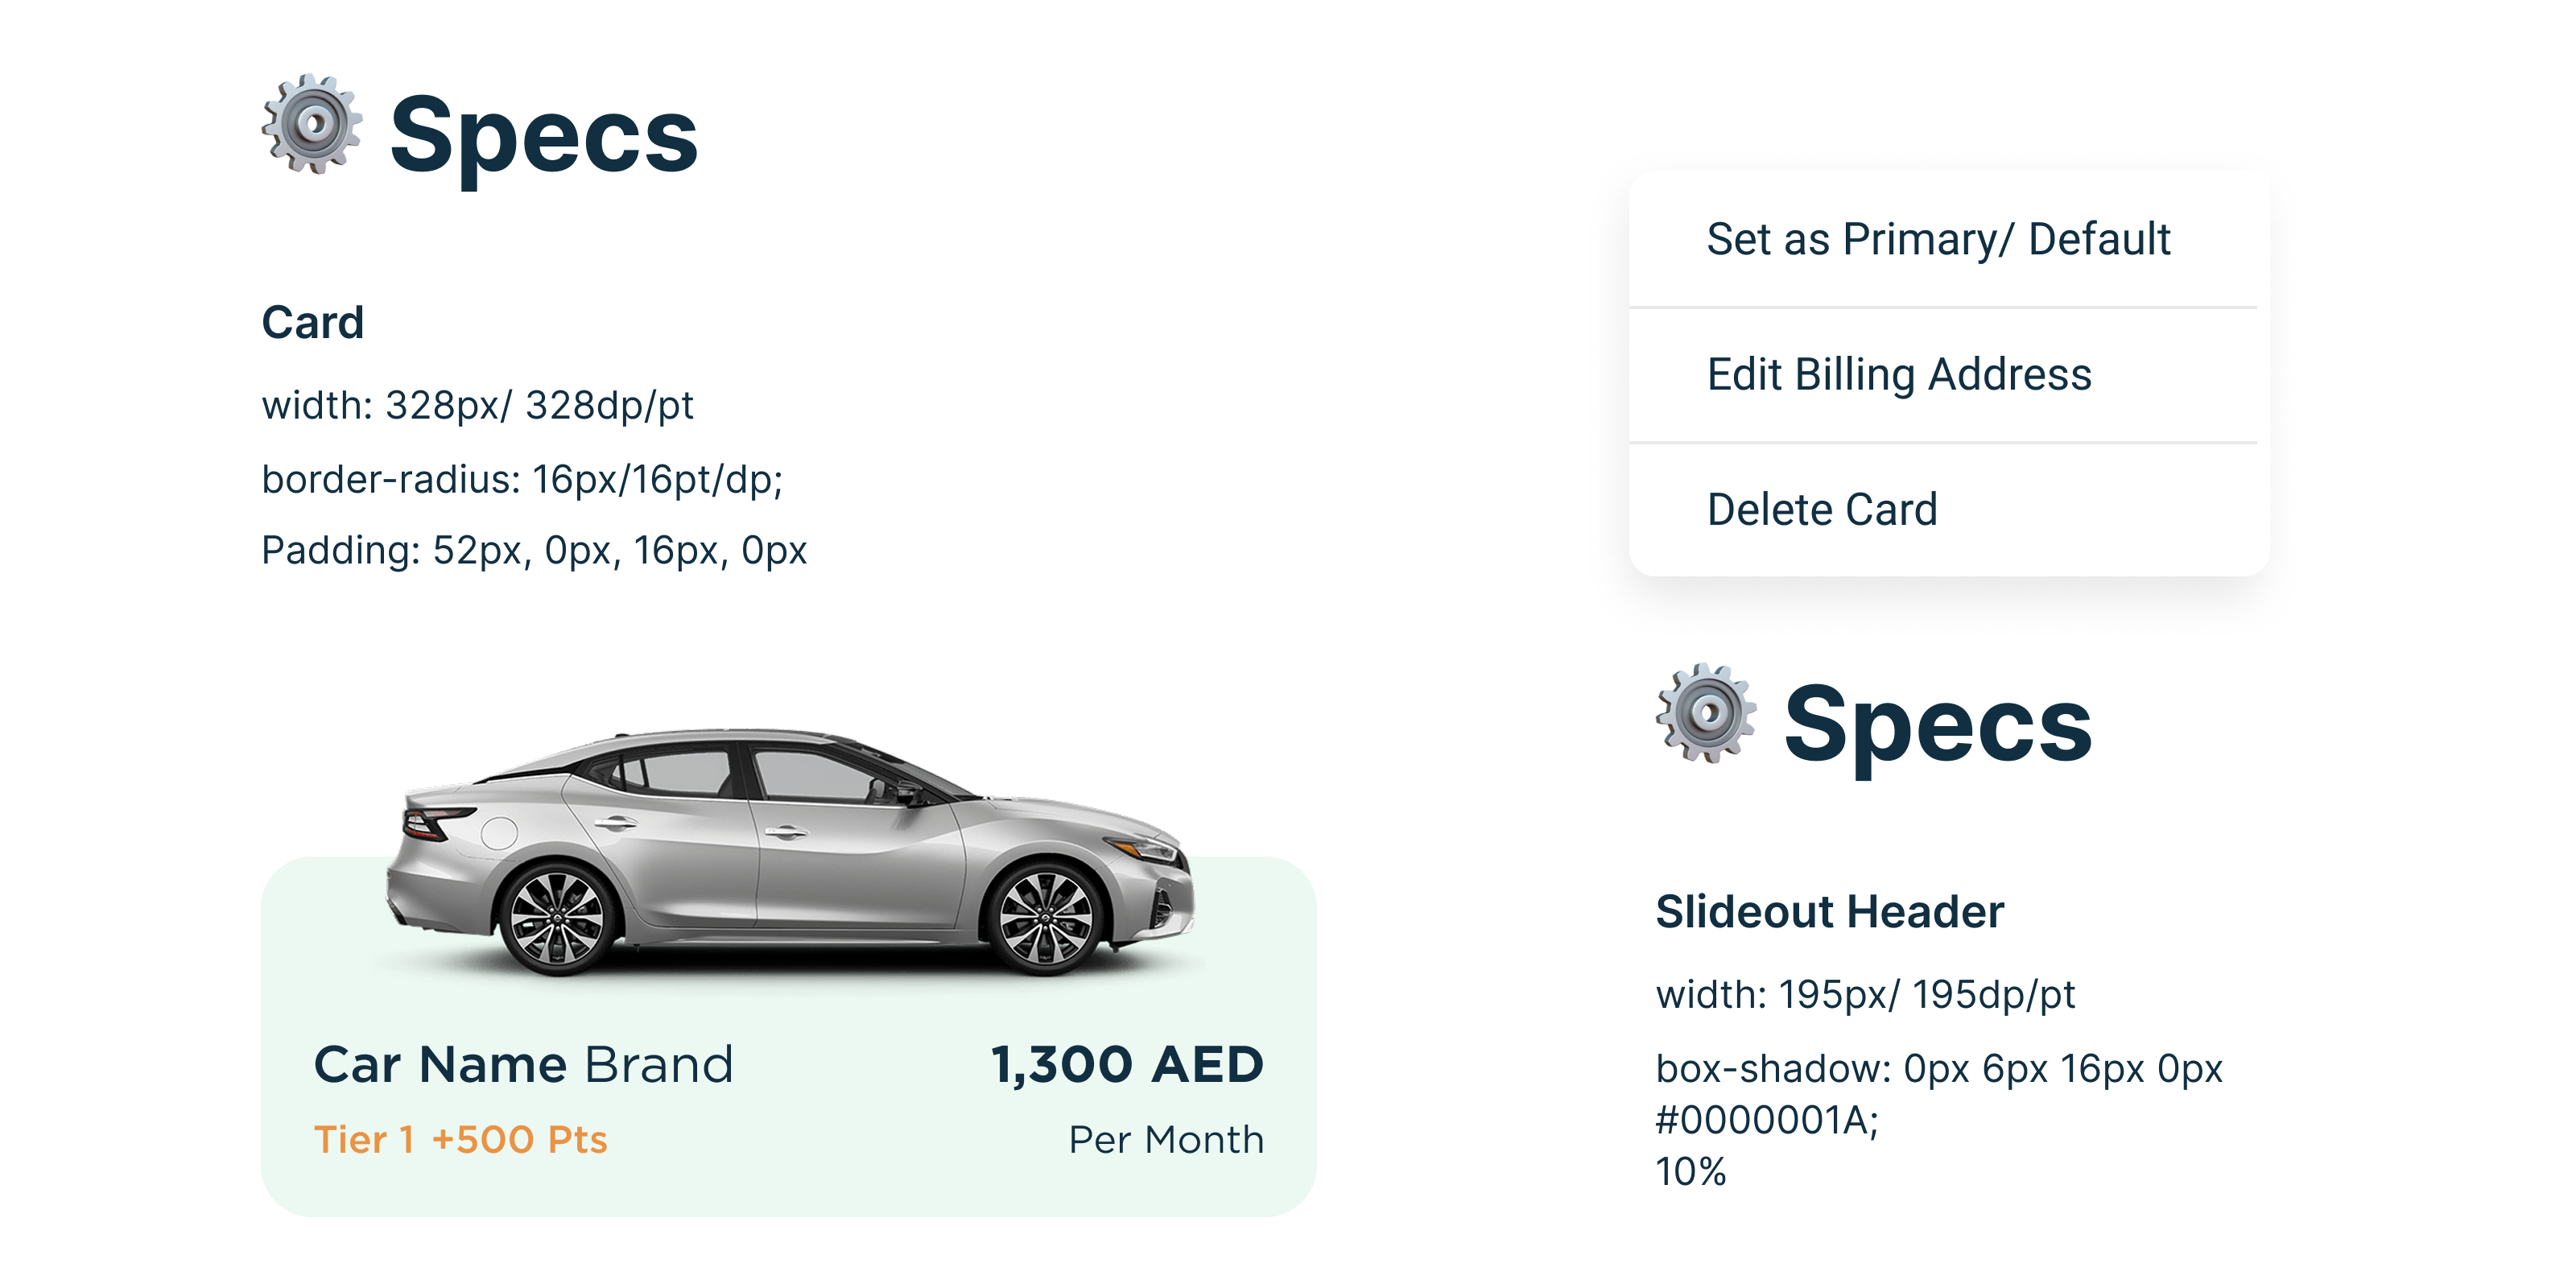
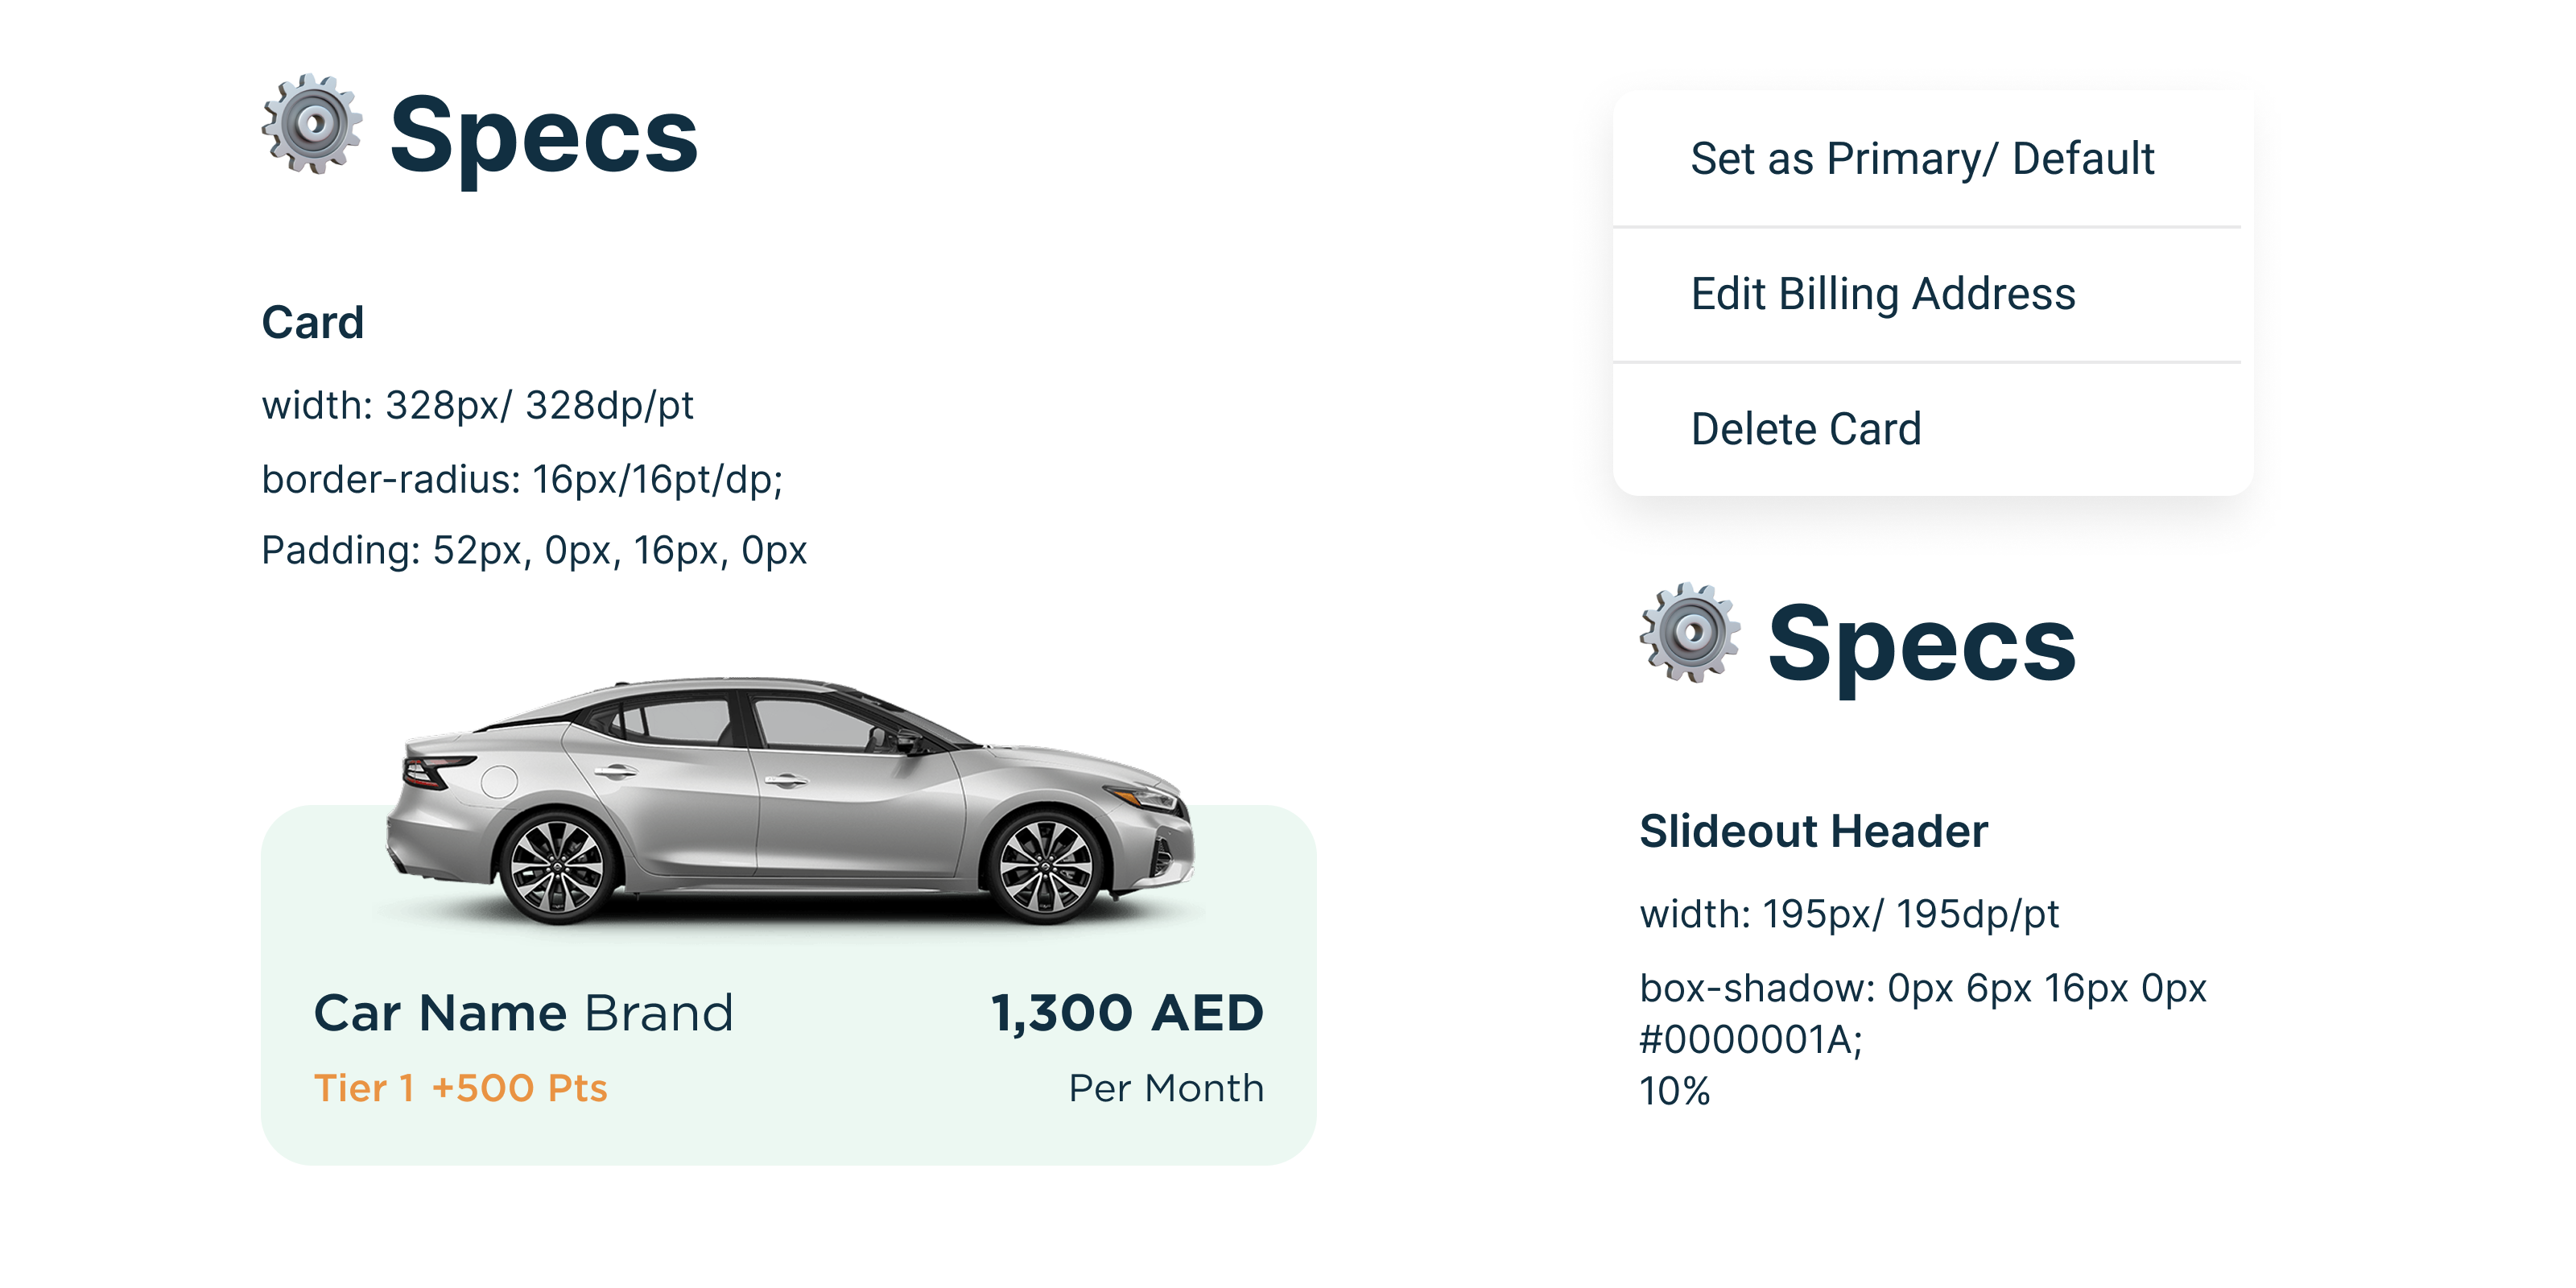
images changes

diff --git a/case-studies/subscribe-me-case-study.html b/case-studies/subscribe-me-case-study.html
@@ -624,7 +624,7 @@ footer{padding:60px 0 48px;border-top:1px solid var(--line)}
                     style="width: 100%; height: auto; display: block;"
                   />
         </div>
-        </div>
+        
       </div>
       <div class="sg-ph wide">
         <div class="ph-acc"></div>
@@ -635,7 +635,7 @@ footer{padding:60px 0 48px;border-top:1px solid var(--line)}
                     style="width: 100%; height: auto; display: block;"
                   />
         </div>
-        </div>
+      
       </div>
     </div>
   </div>